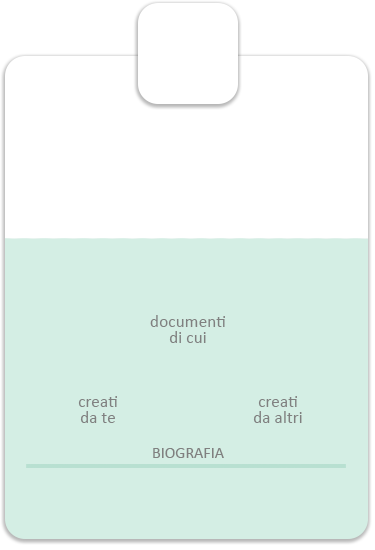
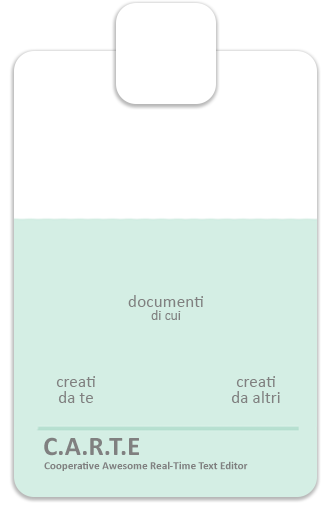
New Profile Design and New Setting Gif

diff --git a/ClientModule/settings.cpp b/ClientModule/settings.cpp
@@ -2,6 +2,7 @@
 #include "ui_settings.h"
 #include "editorwindow.h"
 #include <QSettings>
+#include <QMovie>
 
 Settings::Settings(EditorState &estate, QWidget *parent): QWidget(parent), ui(new Ui::Settings), estate(estate){
     ui->setupUi(this);
@@ -11,6 +12,13 @@ Settings::Settings(EditorState &estate, QWidget *parent): QWidget(parent), ui(ne
 
     Settings::on_ComboDark_currentIndexChanged(ui->ComboDark->currentIndex());
     Settings::on_ComboDay_currentIndexChanged(ui->ComboDay->currentIndex());
+
+    QMovie *movie = new QMovie(":/image/Settings/alternatoCarteDoc.gif");
+    ui->PreviewBar_4->setMovie(movie);
+    QMovie *movie2 = new QMovie(":/image/Settings/animatoCarte.gif");
+    ui->PreviewBar_5->setMovie(movie2);
+    movie->start();
+    movie2->start();
 
 }
 

diff --git a/ClientModule/userprofile.cpp b/ClientModule/userprofile.cpp
@@ -9,7 +9,7 @@ UserProfile::UserProfile(myClient* client, QString nome, QString mail,int files,
     this->setAttribute(Qt::WA_DeleteOnClose, true); //Call the constructor when Windows close this.
     ui->setupUi(this);
     ui->Username->setText(nome); //Associate the QLabel "Username" at the string "nome" passed by argument. In this way I can show the username of the user
-    ui->Mail->setText(mail);     //Same way
+    ui->Mail->setText(mail);
 
     QString TotalFiles = QString::number(files);
     QString MyFiles = QString::number(myFiles);

diff --git a/ClientModule/editorwindow.h b/ClientModule/editorwindow.h
@@ -78,7 +78,6 @@ private slots:
      *               EVENT              *
      ************************************/
     bool eventFilter(QObject *obj, QEvent *ev);
-    void keyPressEvent(QKeyEvent *e);   //Handle Shortcut of Action
     void closeEvent(QCloseEvent * event);
 
     /************************************
